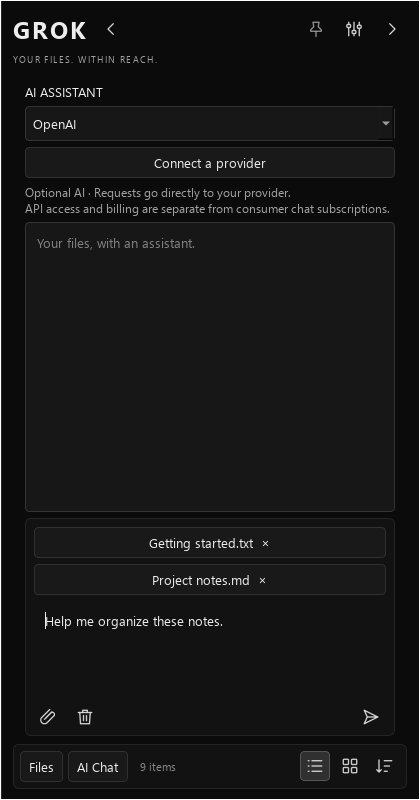
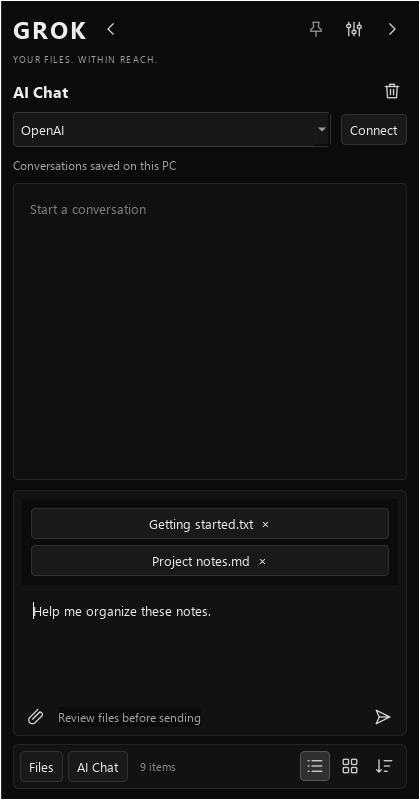
ui: refine AI chat header, transcript and attachment composer

diff --git a/src/grok/ui.py b/src/grok/ui.py
@@ -940,41 +940,64 @@ class Window(QWidget):
         page = QWidget()
         self.chat_page = page
         layout = QVBoxLayout(page)
-        layout.setContentsMargins(12, 10, 12, 0)
+        layout.setContentsMargins(0, 8, 0, 0)
+        layout.setSpacing(10)
         self.provider = QComboBox()
         self.provider.addItems(PROVIDERS)
         self.provider.setCurrentText(self.s["provider"])
         self.provider.setAccessibleName("AI provider")
         self.provider.currentTextChanged.connect(self.change_provider)
-        layout.addWidget(QLabel("AI ASSISTANT"))
-        layout.addWidget(self.provider)
-        self.chat_notice = button("Connect a provider", "Configure and enable optional AI", self.show_settings)
-        layout.addWidget(self.chat_notice)
-        note = QLabel("Optional AI · Requests go directly to your provider.\nAPI access and billing are separate from consumer chat subscriptions.")
+        heading = QHBoxLayout()
+        title = QLabel("AI Chat")
+        title.setStyleSheet("font-size:12pt; font-weight:600;")
+        heading.addWidget(title)
+        heading.addStretch()
+        heading.addWidget(button("Clear", "Clear this provider’s saved conversation", self.clear_chat))
+        layout.addLayout(heading)
+        provider_row = QHBoxLayout()
+        provider_row.addWidget(self.provider, 1)
+        self.chat_notice = button("Connect", "Configure and enable optional AI", self.show_settings)
+        provider_row.addWidget(self.chat_notice)
+        layout.addLayout(provider_row)
+        note = QLabel("Conversations saved on this PC")
+        note.setToolTip("Messages go to your selected provider when sent. API access and billing are separate from consumer chat subscriptions.")
         note.setWordWrap(True)
         note.setObjectName("muted")
         layout.addWidget(note)
         self.chat = QTextBrowser()
-        self.chat.setPlaceholderText("Your files, with an assistant.\n\nConnect your own provider to start a conversation. Select a text file in Files, then use Attach to review what you share.\n\nFile-editing and conversion tools are planned. This version does not execute AI commands.")
+        self.chat.setStyleSheet("QTextBrowser { background:#101010; border:1px solid #242424; padding:12px; }")
+        self.chat.document().setDefaultStyleSheet("p { margin-top:8px; margin-bottom:16px; line-height:145%; }")
+        self.chat.setPlaceholderText("Start a conversation\n\nAsk a question or attach text files for context. Review attachments before sending.")
         self.chat.setOpenExternalLinks(False)
         self.chat.setAccessibleName("AI conversation")
         layout.addWidget(self.chat, 1)
         self.prompt = QTextEdit()
         self.prompt.setPlaceholderText("Ask your provider…")
         self.prompt.setAccessibleName("Message to selected AI provider")
-        self.prompt.setMaximumHeight(100)
+        self.prompt.setMinimumHeight(64)
+        self.prompt.setMaximumHeight(110)
         composer = QFrame()
         composer.setObjectName("navigation")
         compose_layout = QVBoxLayout(composer)
         compose_layout.setContentsMargins(8, 8, 8, 8)
         self.attachment_box = QVBoxLayout()
-        compose_layout.addLayout(self.attachment_box)
+        attachment_content = QWidget()
+        attachment_content.setLayout(self.attachment_box)
+        self.attachment_scroll = QScrollArea()
+        self.attachment_scroll.setWidgetResizable(True)
+        self.attachment_scroll.setWidget(attachment_content)
+        self.attachment_scroll.setMaximumHeight(108)
+        self.attachment_scroll.setStyleSheet("QScrollArea { border:0; background:transparent; }")
+        self.attachment_scroll.hide()
+        compose_layout.addWidget(self.attachment_scroll)
         self.prompt.setStyleSheet("border:0; background:transparent;")
         compose_layout.addWidget(self.prompt)
         layout.addWidget(composer)
         row = QHBoxLayout()
         row.addWidget(button("Attach…", "Preview a text file or folder listing for AI", self.attach_context))
-        row.addWidget(button("Clear", "Delete this provider’s local chat history", self.clear_chat))
+        self.chat_activity = QLabel("Review files before sending")
+        self.chat_activity.setObjectName("muted")
+        row.addWidget(self.chat_activity)
         row.addStretch()
         self.send = button("Send ↑", "Send message to selected external provider", self.send_chat)
         row.addWidget(self.send)
@@ -1036,6 +1059,7 @@ class Window(QWidget):
             if item.widget():
                 item.widget().hide()
                 item.widget().deleteLater()
+        self.attachment_scroll.setVisible(bool(self.attachments))
         for path in self.attachments:
             chip = button(Path(path).name + "  ×", "Remove attachment: " + path, lambda checked=False, p=path: self.remove_attachment(p))
             self.attachment_box.addWidget(chip)
@@ -1111,8 +1135,10 @@ class Window(QWidget):
         self.send.setEnabled(False)
         self.provider.setEnabled(False)
         self.status.setText(f"Sending directly to {provider}…")
+        self.chat_activity.setText("Waiting for reply…")
         def finished(result, failed=False):
             self.ai_busy = False
+            self.chat_activity.setText("Review files before sending")
             self.send.setEnabled(True)
             self.provider.setEnabled(True)
             if generation != self.chat_generation:

diff --git a/README.md b/README.md
@@ -116,3 +116,5 @@ Future file-editing, conversion and terminal tools are specified in [AI tools ro
 - Ctrl+F selects the existing search query for quick replacement.
 
 - Full workspace has Minimize, Maximize/Restore and Close controls. Restore uses a centered 80% work-area window; Close exits GROK (pending jobs must finish). Workspace minimization does not trigger sidebar auto-hide. Sidebar Escape/collapse behavior is retained.
+
+- Chat uses a compact provider/Connect row, a separate conversation-clear action, spacious transcript, bounded scrolling attachment area, and inline waiting feedback in the composer. Saved history and attachment review behavior are preserved.

diff --git a/PROJECT_CONTEXT.md b/PROJECT_CONTEXT.md
@@ -87,3 +87,5 @@ Make scoped changes and preserve unrelated work. Keep source, tests, context and
 - Ctrl+F selects the existing search query for quick replacement.
 
 - Full workspace has Minimize, Maximize/Restore and Close controls. Restore uses a centered 80% work-area window; Close exits GROK (pending jobs must finish). Workspace minimization does not trigger sidebar auto-hide. Sidebar Escape/collapse behavior is retained.
+
+- Chat uses a compact provider/Connect row, a separate conversation-clear action, spacious transcript, bounded scrolling attachment area, and inline waiting feedback in the composer. Saved history and attachment review behavior are preserved.
